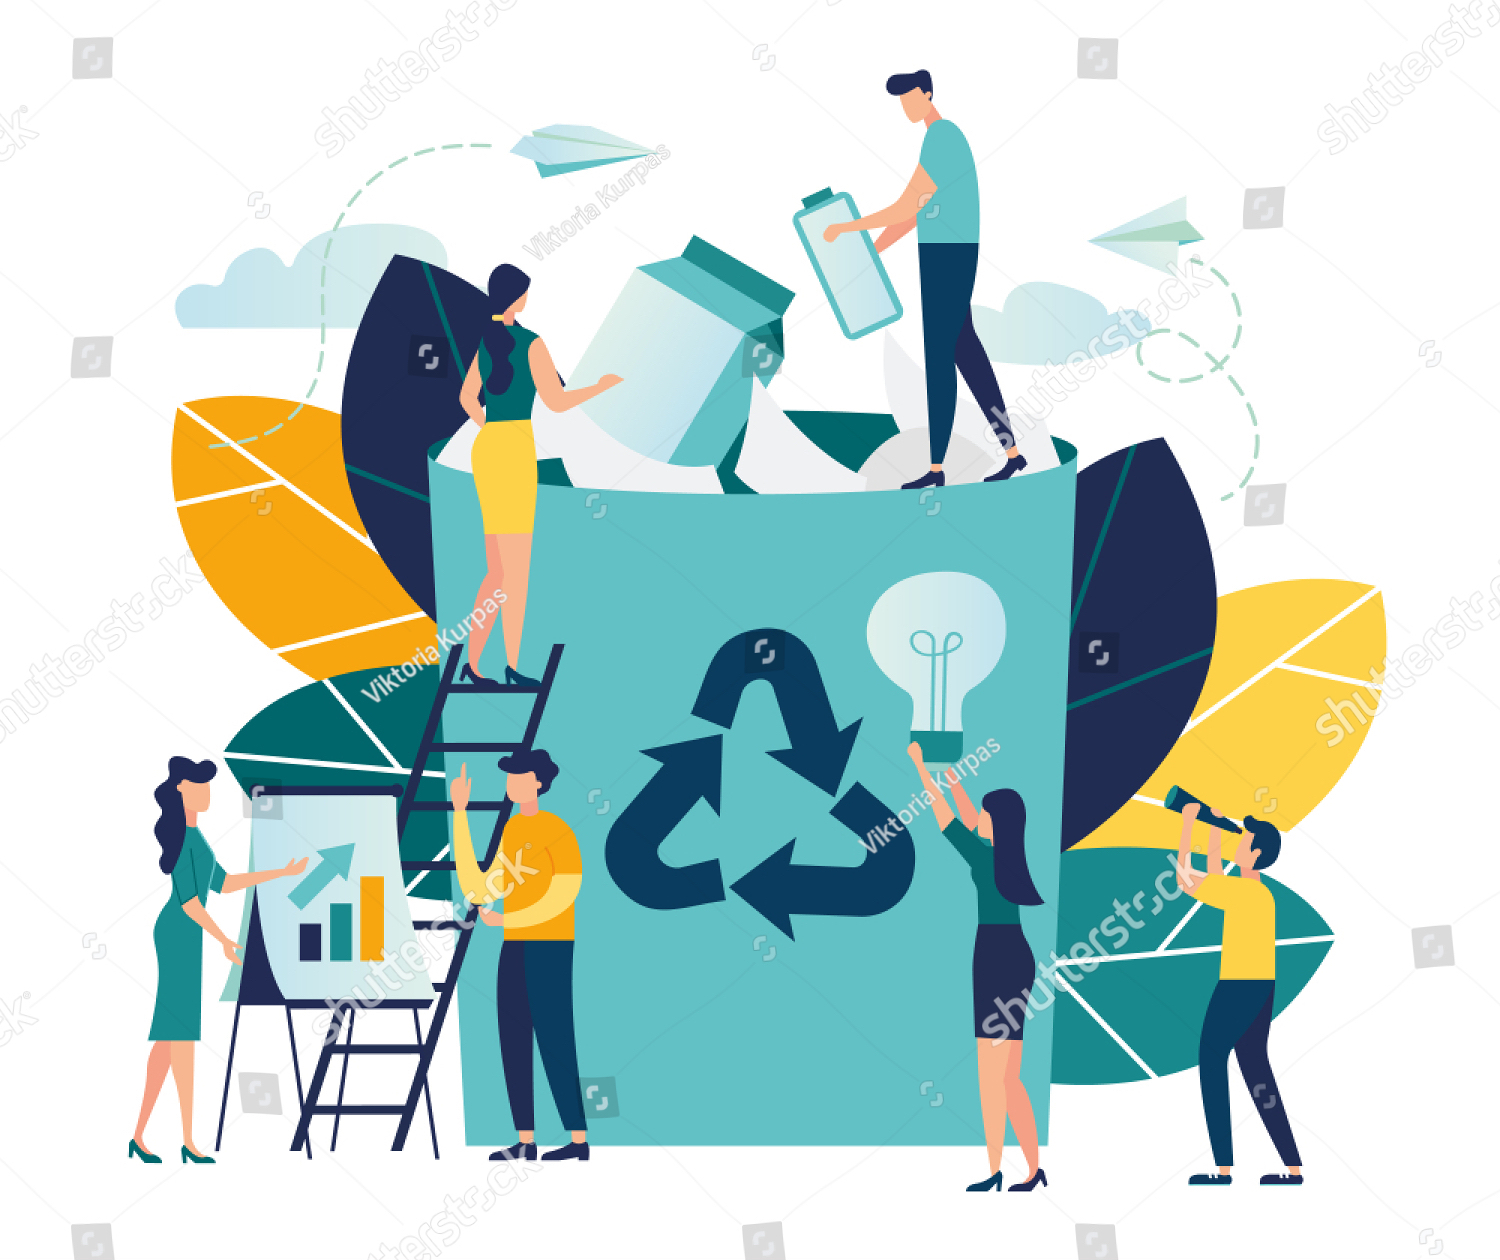
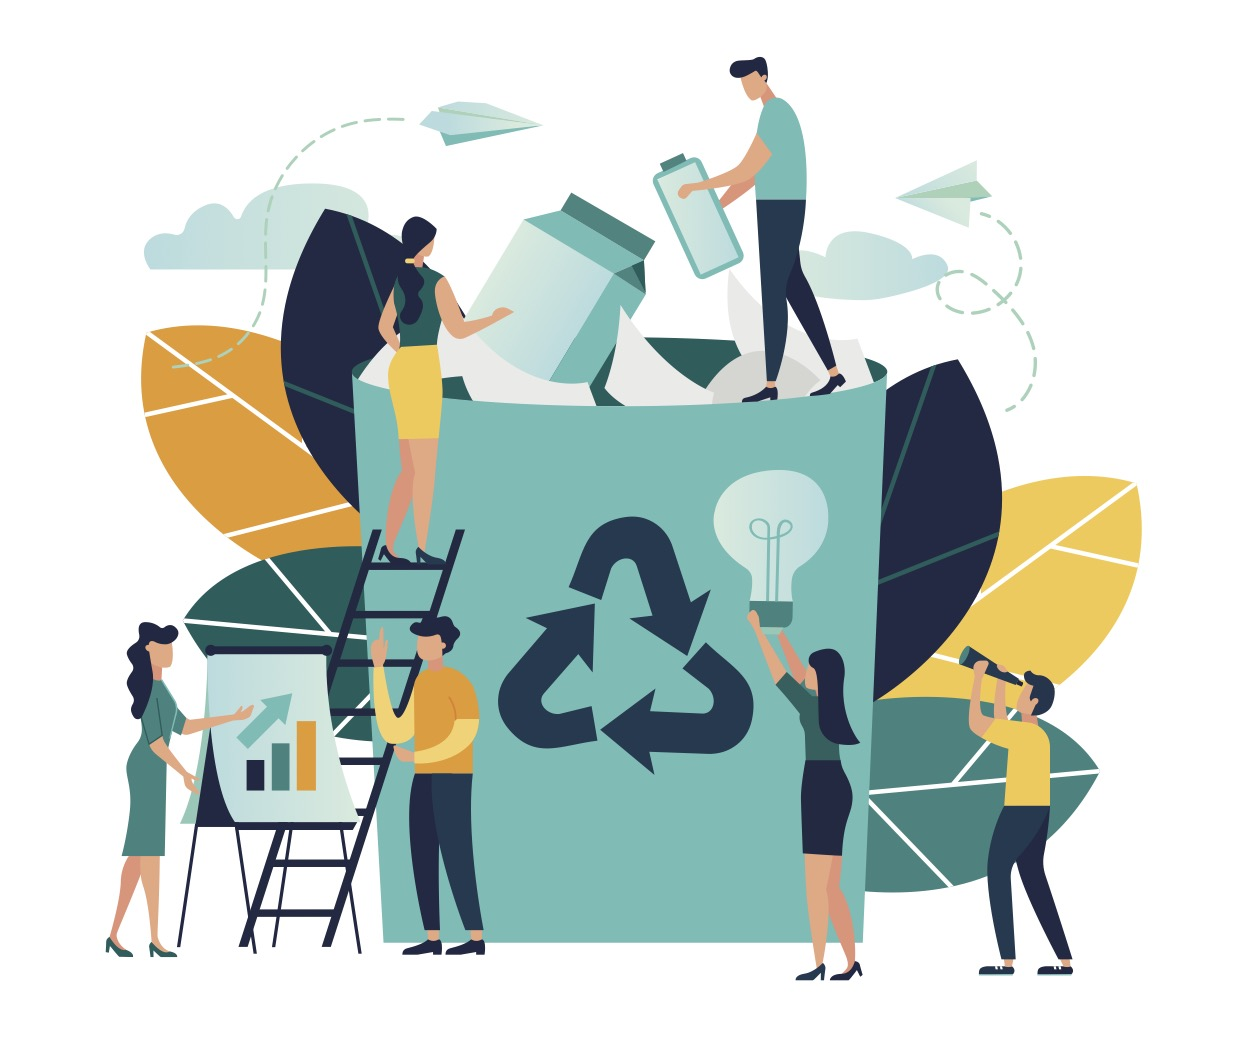
removed the images watermark. added hero on index page  and replaced some images

diff --git a/app/assets/stylesheets/components/_filtering.scss b/app/assets/stylesheets/components/_filtering.scss
@@ -2,6 +2,7 @@
   padding: 15px;
   border-radius: 5px;
   box-shadow: 0 0 15px rgba(14, 14, 14, 0.2);
-  max-width: 900px;
-  margin-bottom: 40px;
+  max-width: 80%;
+  margin-bottom: 30px;
+  margin-right: auto;
 }

diff --git a/app/assets/stylesheets/pages/_listing.scss b/app/assets/stylesheets/pages/_listing.scss
@@ -1,0 +1,6 @@
+#search-hero {
+  display: block;
+  margin-left: auto;
+  margin-right: auto;
+  width: 80%;
+}

diff --git a/app/assets/stylesheets/pages/_index.scss b/app/assets/stylesheets/pages/_index.scss
@@ -1,3 +1,4 @@
 // Import page-specific CSS files here.
 @import "home";
 @import "about";
+@import "listing";

diff --git a/app/assets/stylesheets/pages/_about.scss b/app/assets/stylesheets/pages/_about.scss
@@ -26,6 +26,6 @@
 }
 
 #steps-img {
-  width: 100%;
+  width: 710px;
   height: 100%;
 }

diff --git a/db/schema.rb b/db/schema.rb
@@ -52,6 +52,16 @@ ActiveRecord::Schema[7.0].define(version: 2022_09_16_115718) do
     t.index ["user_id"], name: "index_bookings_on_user_id"
   end
 
+  create_table "conversations", force: :cascade do |t|
+    t.integer "recipient_id"
+    t.integer "sender_id"
+    t.datetime "created_at", null: false
+    t.datetime "updated_at", null: false
+    t.index ["recipient_id", "sender_id"], name: "index_conversations_on_recipient_id_and_sender_id", unique: true
+    t.index ["recipient_id"], name: "index_conversations_on_recipient_id"
+    t.index ["sender_id"], name: "index_conversations_on_sender_id"
+  end
+
   create_table "listings", force: :cascade do |t|
     t.string "title"
     t.string "address"
@@ -63,6 +73,16 @@ ActiveRecord::Schema[7.0].define(version: 2022_09_16_115718) do
     t.float "latitude"
     t.float "longitude"
     t.index ["user_id"], name: "index_listings_on_user_id"
+  end
+
+  create_table "messages", force: :cascade do |t|
+    t.text "body"
+    t.bigint "user_id", null: false
+    t.bigint "conversation_id", null: false
+    t.datetime "created_at", null: false
+    t.datetime "updated_at", null: false
+    t.index ["conversation_id"], name: "index_messages_on_conversation_id"
+    t.index ["user_id"], name: "index_messages_on_user_id"
   end
 
   create_table "reviews", force: :cascade do |t|
@@ -96,6 +116,8 @@ ActiveRecord::Schema[7.0].define(version: 2022_09_16_115718) do
   add_foreign_key "bookings", "listings"
   add_foreign_key "bookings", "users"
   add_foreign_key "listings", "users"
+  add_foreign_key "messages", "conversations"
+  add_foreign_key "messages", "users"
   add_foreign_key "reviews", "listings"
   add_foreign_key "reviews", "users"
 end
